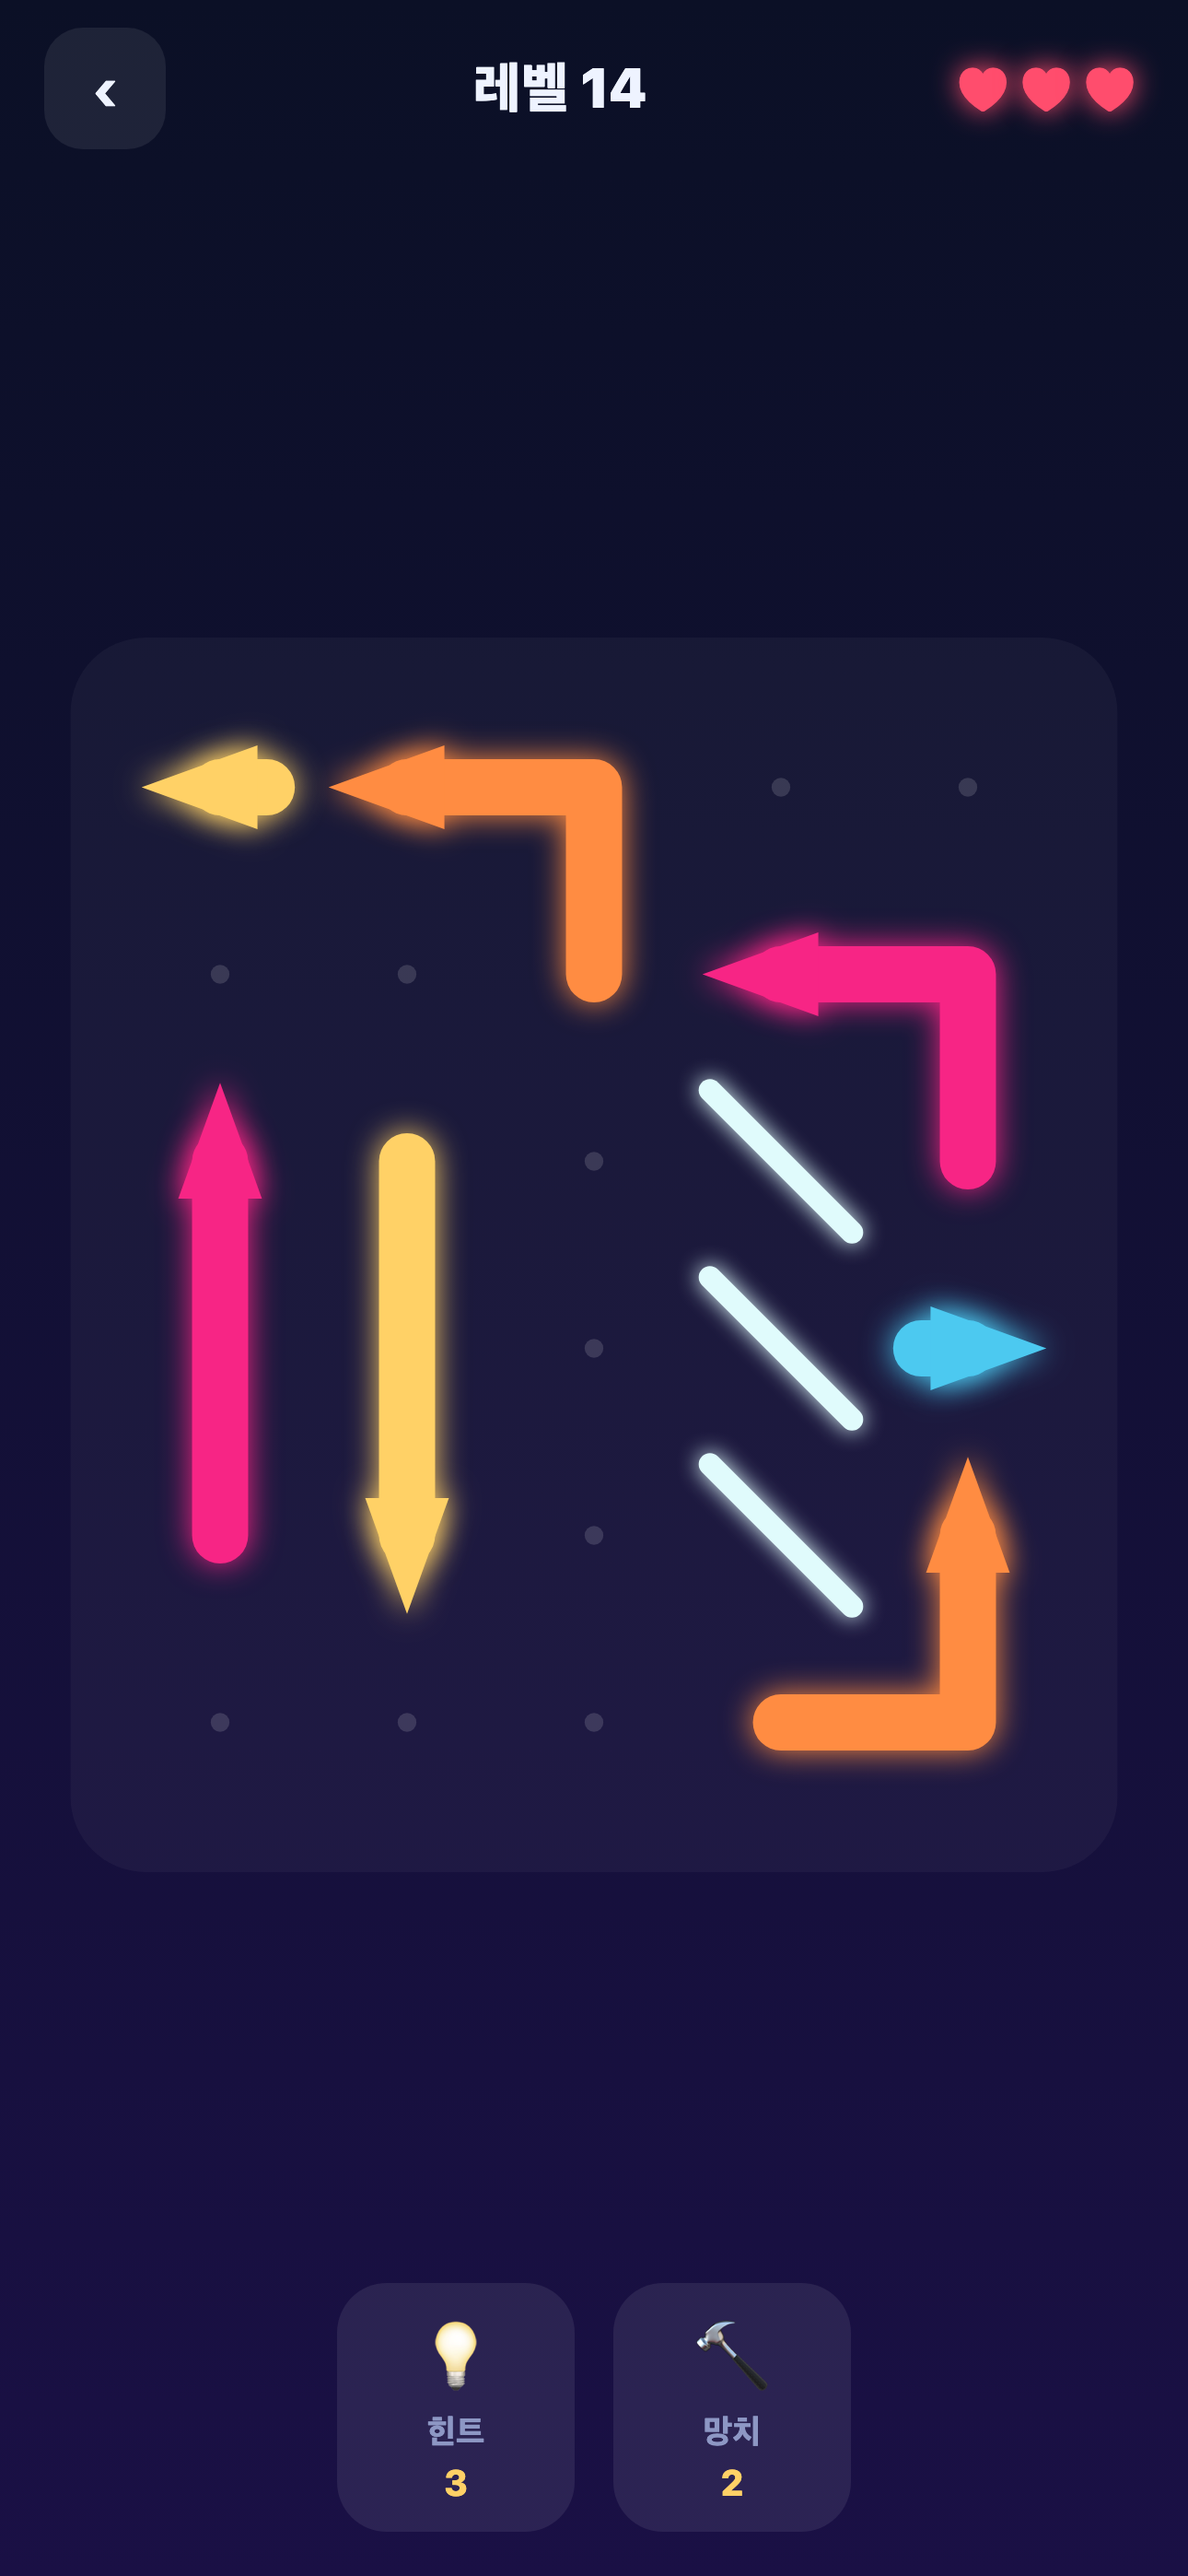
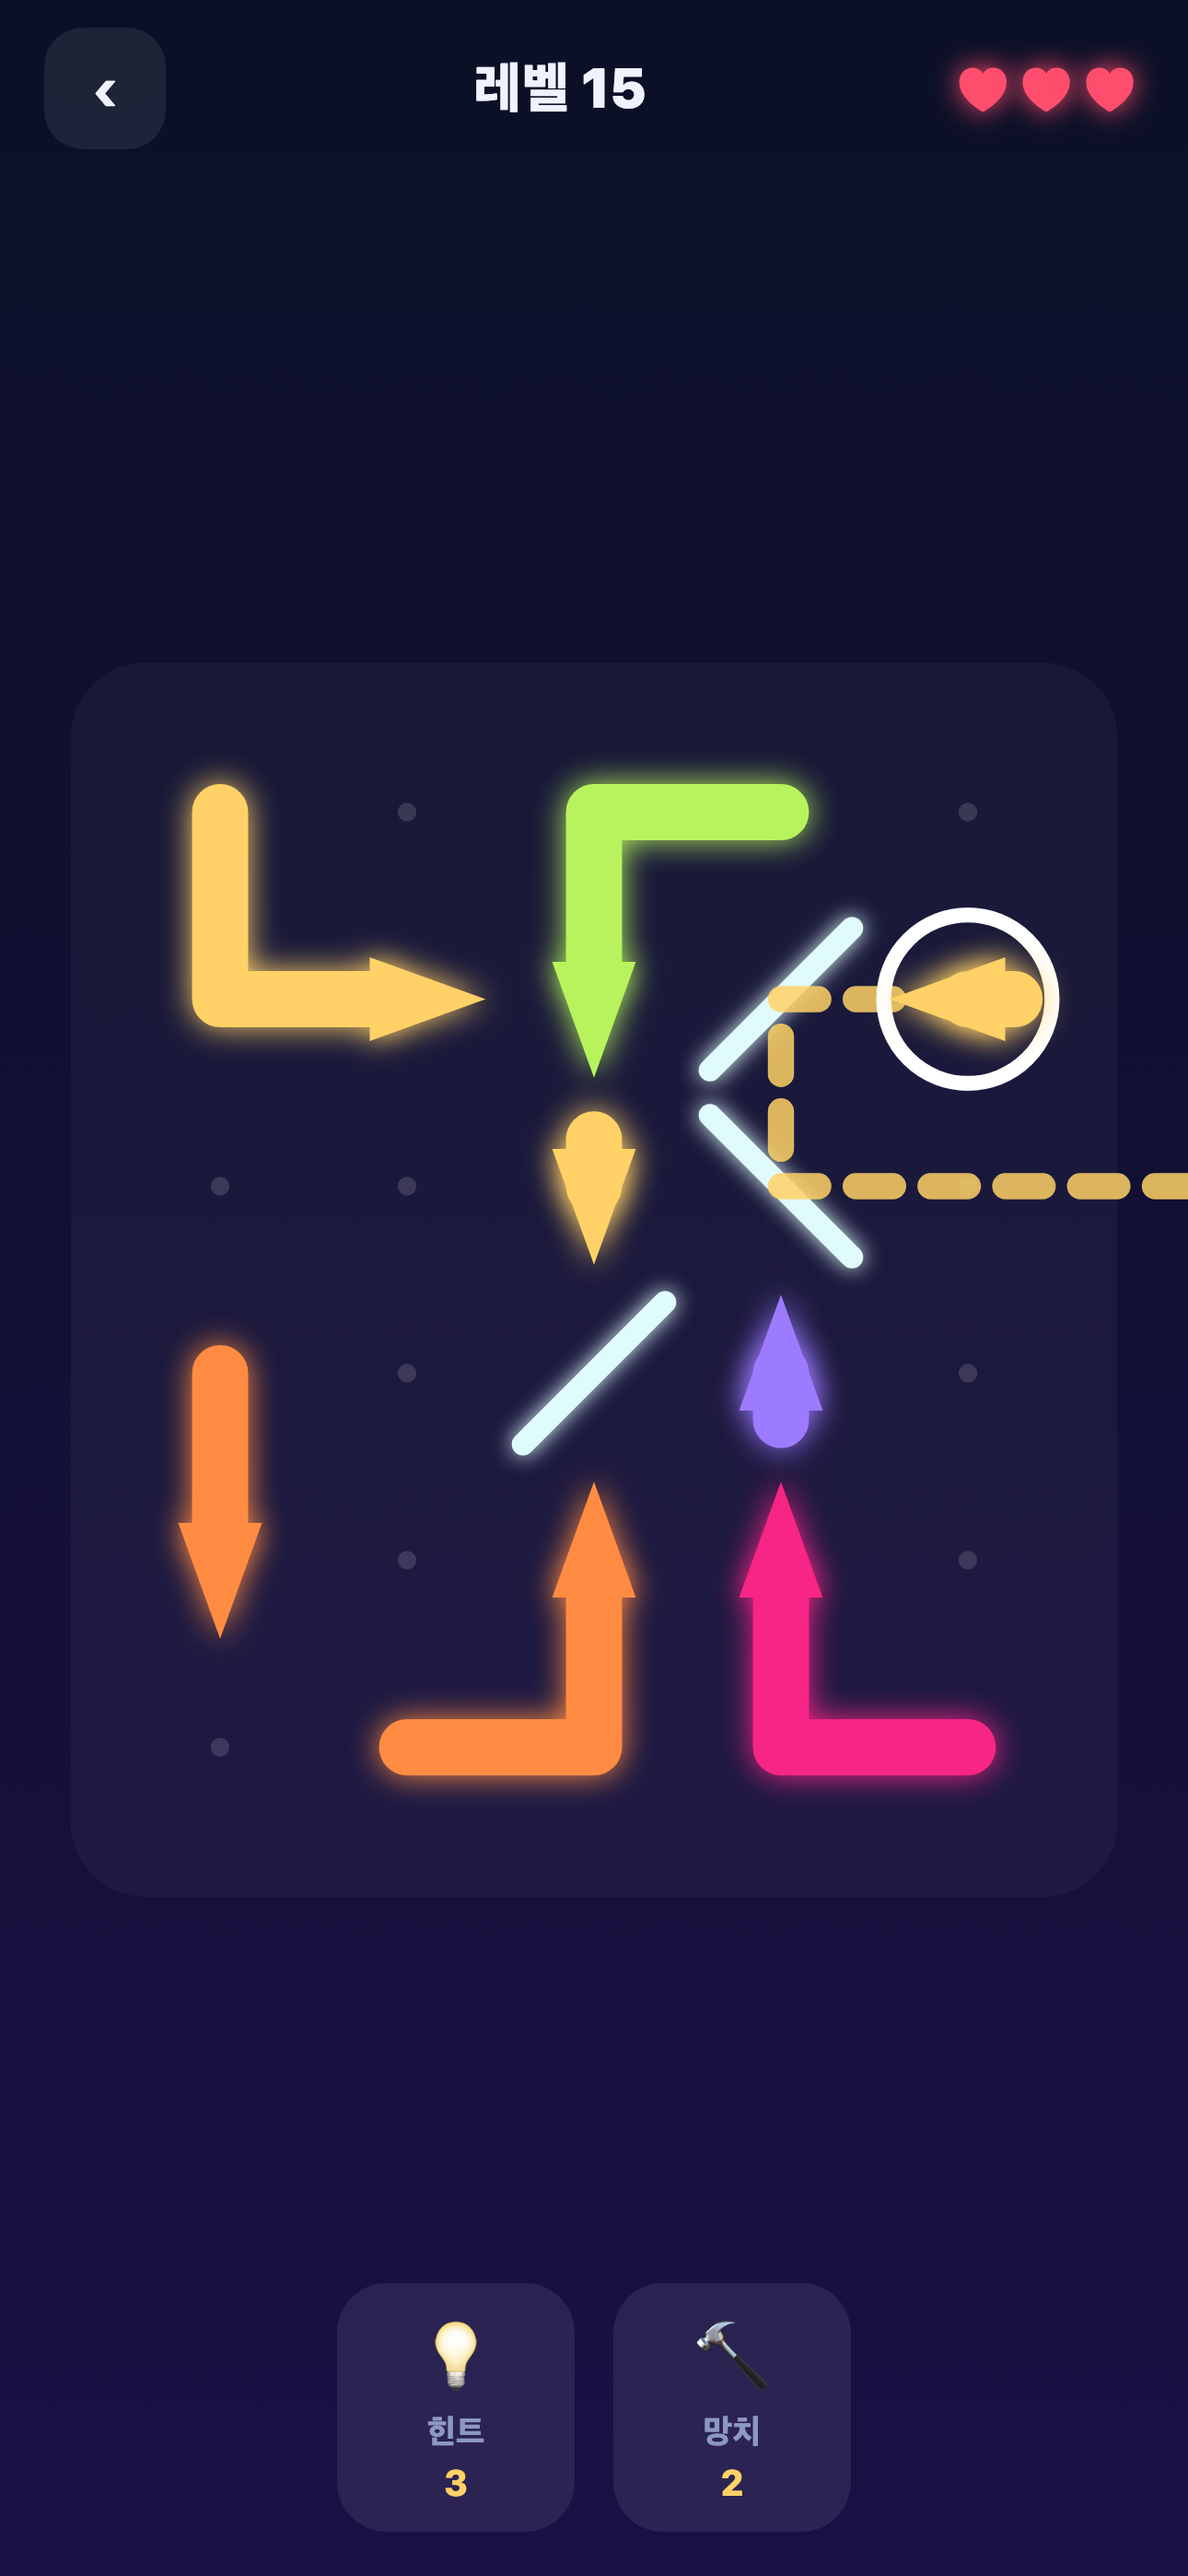
chore(release): store screenshots, ad hoc install page, one-command ASC release

Changed region(s): [[0.124, 0.28, 1.0, 0.7157], [0.4961, 0.0311, 0.5271, 0.0622]]

diff --git a/public/install/index.html b/public/install/index.html
@@ -1,0 +1,25 @@
+<!doctype html>
+<html lang="ko">
+<head>
+<meta charset="utf-8"><meta name="viewport" content="width=device-width, initial-scale=1">
+<title>리코셰 아웃 설치</title>
+<style>
+body{margin:0;min-height:100vh;background:#0b1026;color:#fff;font-family:system-ui,-apple-system,'Apple SD Gothic Neo',sans-serif;display:flex;align-items:center;justify-content:center;text-align:center}
+main{max-width:420px;padding:28px}
+img{width:132px;height:132px;border-radius:30px;box-shadow:0 10px 30px rgba(0,0,0,.4)}
+h1{margin:18px 0 4px;font-size:30px;font-style:italic}
+p{opacity:.8;line-height:1.6}
+a{display:block;margin:14px 0;padding:16px;border-radius:16px;font-weight:900;font-size:18px;text-decoration:none;color:#fff}
+.ios{background:linear-gradient(135deg,#4cc9f0,#7b61ff)}.web{background:linear-gradient(135deg,#f72585,#7209b7)}.apk,.ad{background:#343a40}
+small{opacity:.6;line-height:1.6;display:block}
+</style>
+</head>
+<body><main>
+<img src="../icon-512.png" alt="">
+<h1>RICOCHET OUT</h1>
+<p>화살표를 탭하면 날아가고, 거울에 닿으면 꺾여요. 모든 화살표를 내보내세요.</p>
+<a class="ios" href="itms-services://?action=download-manifest&amp;url=https://ricochet-out.vercel.app/install/manifest.plist">📱 아이폰에 설치</a>
+<small>Safari에서 누르세요. 설치 후 설정 → 일반 → VPN 및 기기 관리에서 신뢰가 필요할 수 있어요. 등록된 기기에서만 설치됩니다.</small>
+<a class="web" href="../">▶ 브라우저에서 바로 하기</a>
+</main></body>
+</html>

diff --git a/scripts/store-captions.py b/scripts/store-captions.py
@@ -1,0 +1,49 @@
+"""Puts each raw store screenshot on a 1290x2796 poster: headline, subline, framed shot."""
+import os, sys
+from PIL import Image, ImageDraw, ImageFont, ImageFilter
+
+RAW = sys.argv[1] if len(sys.argv) > 1 else 'store/raw'
+OUT = sys.argv[2] if len(sys.argv) > 2 else 'store/screenshots'
+FONT = '/System/Library/Fonts/AppleSDGothicNeo.ttc'
+W, H = 1290, 2796
+CAPS = [
+    ('1-bounce', '거울에 닿으면 꺾인다', '화살표의 길을 읽고 탭!'),
+    ('2-hint', '막히면 힌트가 길을 보여줘요', '나갈 수 있는 화살표와 경로 표시'),
+    ('3-super', '25레벨마다 슈퍼 하드', '벽과 거울이 가득한 도전'),
+    ('4-stars', '실수 없이 깨면 별 3개', '하트 3개, 신중하게'),
+    ('5-home', '별자리를 완성하세요', '30레벨마다 별자리 하나'),
+    ('6-skins', '네온 스킨 6종', '별가루로 열어요 · 광고 없음'),
+]
+os.makedirs(OUT, exist_ok=True)
+f1 = ImageFont.truetype(FONT, 100, index=8)
+f2 = ImageFont.truetype(FONT, 56, index=6)
+for name, head, sub in CAPS:
+    src = os.path.join(RAW, name + '.png')
+    if not os.path.exists(src):
+        continue
+    bg = Image.new('RGB', (W, H), (11, 16, 38))
+    # Soft vertical glow behind everything.
+    g = Image.new('RGB', (W, H))
+    gd = ImageDraw.Draw(g)
+    for y in range(H):
+        t = y / H
+        gd.line([(0, y), (W, y)], fill=(int(18 + 30 * t), int(20 + 4 * t), int(58 + 30 * t)))
+    bg = g
+    d = ImageDraw.Draw(bg)
+    for text, font, y, col in ((head, f1, 170, (255, 255, 255)), (sub, f2, 330, (76, 201, 240))):
+        w = d.textlength(text, font=font)
+        d.text(((W - w) / 2, y), text, font=font, fill=col)
+    shot = Image.open(src).convert('RGB')
+    sw = int(W * 0.8)
+    sh = int(shot.height * sw / shot.width)
+    shot = shot.resize((sw, sh), Image.LANCZOS)
+    x, y = (W - sw) // 2, 500
+    glow = Image.new('L', (W, H), 0)
+    ImageDraw.Draw(glow).rounded_rectangle((x - 10, y - 10, x + sw + 10, y + sh + 10), 90, fill=180)
+    glow = glow.filter(ImageFilter.GaussianBlur(40))
+    bg.paste(Image.new('RGB', (W, H), (76, 201, 240)), (0, 0), glow.point(lambda v: v // 3))
+    mask = Image.new('L', (sw, sh), 0)
+    ImageDraw.Draw(mask).rounded_rectangle((0, 0, sw - 1, sh - 1), 80, fill=255)
+    bg.paste(shot, (x, y), mask)
+    bg.save(os.path.join(OUT, f'ios67-{name}.png'), optimize=True)
+    print('wrote', name)

diff --git a/docs/RELEASE.md b/docs/RELEASE.md
@@ -1,0 +1,23 @@
+# Releasing Ricochet Out on the App Store
+
+Done already: bundle ID `kr.co.ddstudio.ricochet`, ad hoc + App Store profiles
+(`scripts/ios-provision.mjs`), repo secrets, CI (`.github/workflows/ios.yml`),
+listing text (`store/listing/`), 6 screenshots 1290×2796 (`store/screenshots/`),
+privacy/support pages, review notes.
+
+## The one manual step
+Apple does not allow creating the app record through the API. In App Store Connect → 앱 → ＋ 신규 앱:
+- 플랫폼 iOS · 이름 **리코셰 아웃: 거울 반사 퍼즐** · 기본 언어 한국어
+- 번들 ID **kr.co.ddstudio.ricochet** · SKU `ricochet-out` · 사용자 액세스 전체
+
+## Then
+```
+./scripts/asc-release.sh          # rating, price/territories, listing, screenshots, CI build + upload
+# App Store Connect → 앱 개인정보 보호 → "데이터를 수집하지 않음" → 게시 (web UI only)
+ASC_REVIEW_FIRST=… ASC_REVIEW_LAST=… ASC_REVIEW_PHONE=+8210… ASC_REVIEW_EMAIL=… ASC_COPYRIGHT="2026 …" \
+  ./scripts/asc-release.sh --submit
+```
+
+## Re-running pieces
+- Screenshots: build with `VITE_STORE_RELEASE=1`, serve, `node scripts/store-shots.mjs <url> store/raw`, `python3 scripts/store-captions.py`
+- Ad hoc install page: `gh workflow run ios.yml --field variant=adhoc`, download the artifact, `node scripts/ios-ota.mjs App.ipa`, deploy
